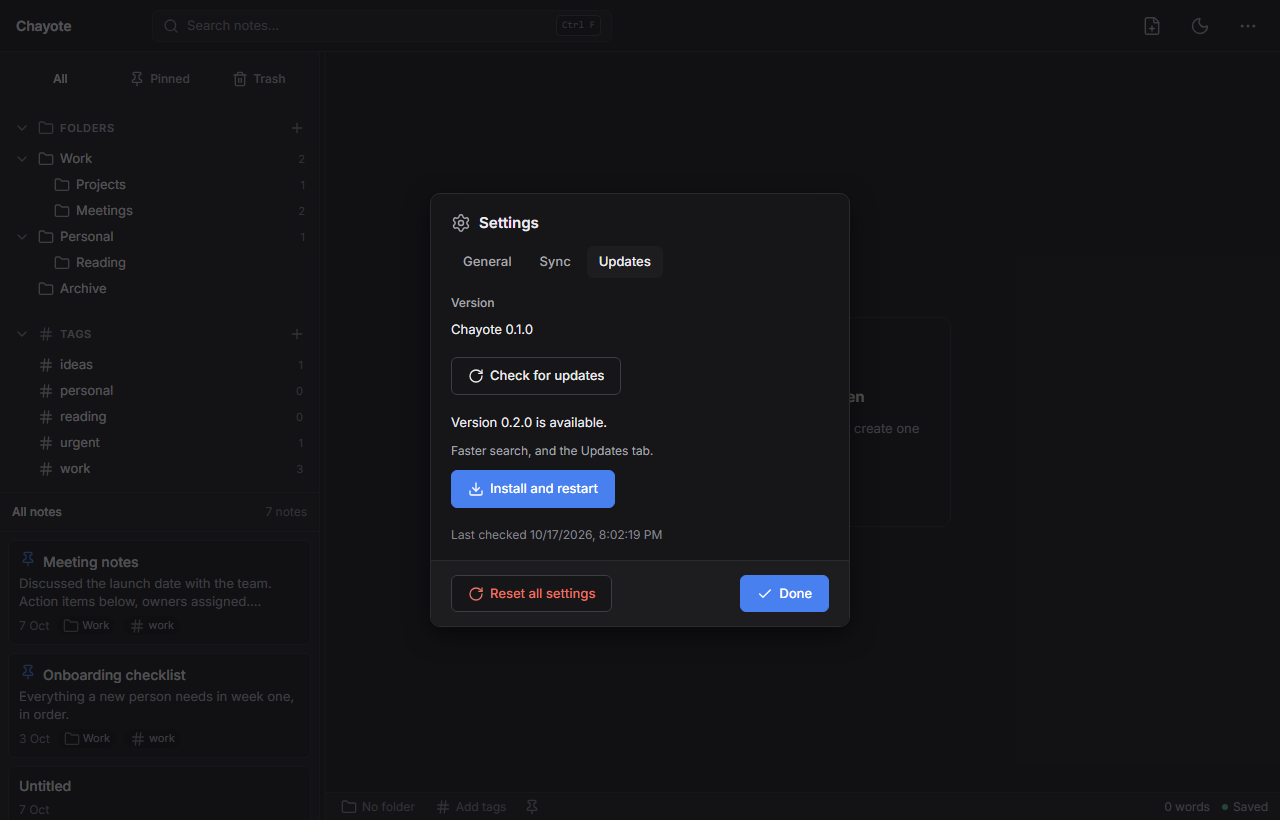
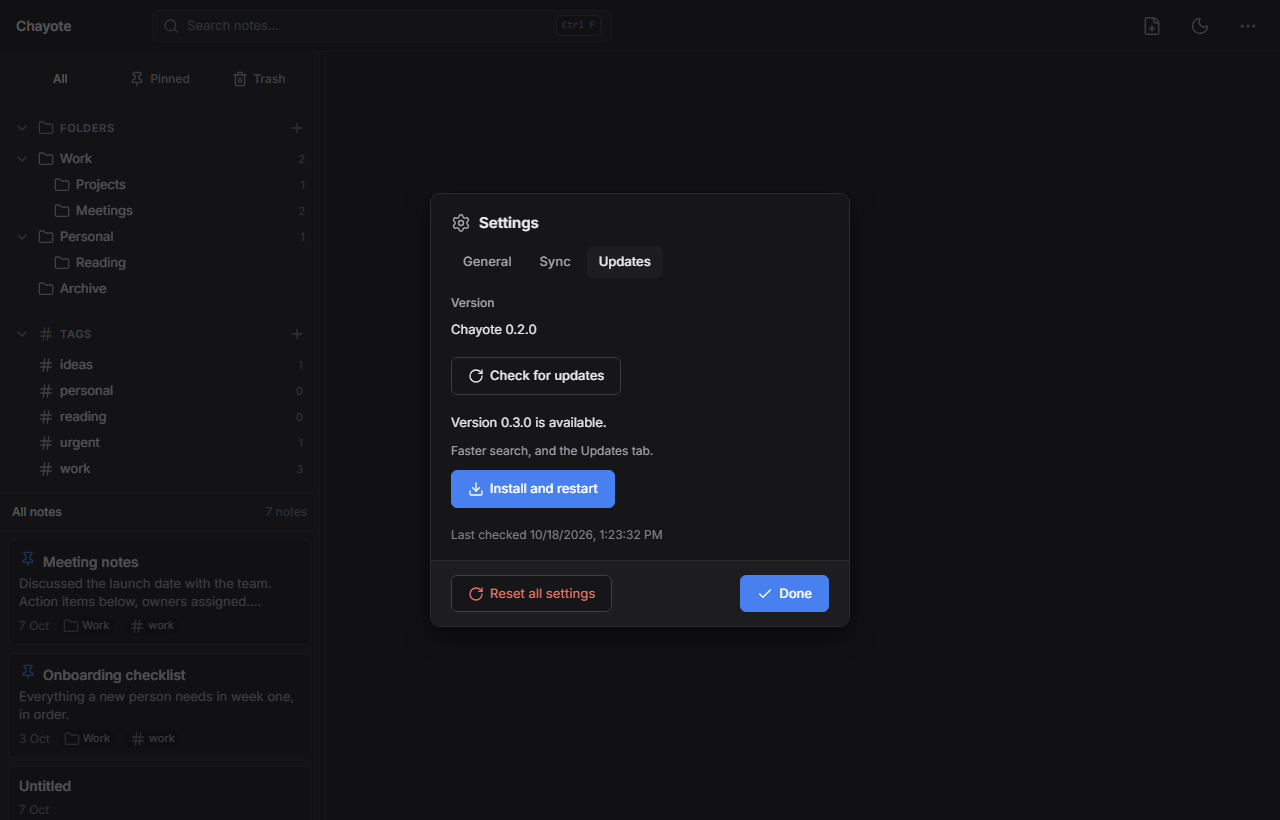
release: 0.2.0, and the Android APK job that ships it
Bumps the version in the four places that declare it, with
`src-tauri/tauri.conf.json` as the authority the `version` job checks the
tag against. The tag cannot be changed alone: the job refuses a tag that
disagrees with the config, because `latest.json` and every artifact signature
carry the config version and `requireSignedVersion` compares the signed
version with the announced one.

Follows the version through the mock. `MOCK_VERSION` restates the shipped
version and `MOCK_UPDATE.version` stays above it, so the browser fallback
reports 0.2.0 and offers 0.3.0; every fixture and the prototype restate the same
numbers, and one assertion in `UpdatePane.test.tsx` had to follow.

Three corrections to `release.yml` that ADR-025 made stale:

- The header still said the APK is intentionally not built here and that Android
  cannot update itself at all. Both false since the previous commit.
- The release body told users Android does not update itself, and had no APK row
  in the download table. It now carries the APK, the one-time debug-to-release
  reinstall, and the first-update permission.
- `tauri android build` gains `--ci`, and the JDK is pinned to 21 rather than
  inherited from whatever the runner ships, because a signed release should not
  depend on that.

The four `updates-*` screenshots are regenerated because their text really
changed. `search-light` and `tag-editor-*` were restored: they re-render
[…]

diff --git a/src/components/UpdatePane.test.tsx b/src/components/UpdatePane.test.tsx
@@ -13,14 +13,14 @@ import type { AppInfo, UpdateSummary } from '../types/update';
    Plain Testing Library assertions, no `jest-dom` — this project does not take
    that dependency, so `toHaveTextContent` and `toBeDisabled` are spelled out. */
 
-const WINDOWS: AppInfo = { version: '0.1.0', os: 'Windows', updatesSupported: true };
-const MACOS: AppInfo = { version: '0.1.0', os: 'macOS', updatesSupported: false };
+const WINDOWS: AppInfo = { version: '0.2.0', os: 'Windows', updatesSupported: true };
+const MACOS: AppInfo = { version: '0.2.0', os: 'macOS', updatesSupported: false };
 /** ADR-025: Android updates itself, so it is the supported fixture. It was the
     unsupported one until the Kotlin installer existed. */
-const ANDROID: AppInfo = { version: '0.1.0', os: 'Android', updatesSupported: true };
+const ANDROID: AppInfo = { version: '0.2.0', os: 'Android', updatesSupported: true };
 
 const FOUND: UpdateSummary = {
-  version: '0.2.0',
+  version: '0.3.0',
   notes: 'Faster search, and the Updates tab.',
   date: '2026-10-17T09:00:00Z',
 };
@@ -56,7 +56,7 @@ function isDisabled(testId: string): boolean {
 describe('UpdatePane', () => {
   it('shows the running version, and never a claim about anything else', () => {
     render(<UpdatePane {...pane()} />);
-    expect(text('update-version')).toContain('Chayote 0.1.0');
+    expect(text('update-version')).toContain('Chayote 0.2.0');
     /* Before a check has run the tab knows nothing about updates, so it says
        nothing. "Up to date" here would be a claim about a version it has not
        looked up. */
@@ -91,7 +91,7 @@ describe('UpdatePane', () => {
 
   it('offers the install only when a check found something newer', () => {
     render(<UpdatePane {...pane({ update: FOUND, lastCheckedAt: 1_780_000_000_000 })} />);
-    expect(text('update-available')).toContain('Version 0.2.0 is available.');
+    expect(text('update-available')).toContain('Version 0.3.0 is available.');
     expect(text('update-available')).toContain(FOUND.notes);
     expect(screen.queryByTestId('update-current')).toBeNull();
     expect(text('update-install')).toContain('Install and restart');
@@ -100,7 +100,7 @@ describe('UpdatePane', () => {
   it('omits the notes block rather than rendering an empty one', () => {
     render(<UpdatePane {...pane({ update: { ...FOUND, notes: '   ' } })} />);
     const available = screen.getByTestId('update-available');
-    expect(available.textContent).toContain('Version 0.2.0 is available.');
+    expect(available.textContent).toContain('Version 0.3.0 is available.');
     /* Two paragraphs would be the headline and an empty one. */
     expect(available.querySelectorAll('p')).toHaveLength(1);
   });
@@ -188,7 +188,7 @@ describe('UpdatePane', () => {
   });
 
   it('falls back to a general reason on a platform it has no words for', () => {
-    const unknown: AppInfo = { version: '0.1.0', os: 'Unknown', updatesSupported: false };
+    const unknown: AppInfo = { version: '0.2.0', os: 'Unknown', updatesSupported: false };
     render(<UpdatePane {...pane({ info: unknown })} />);
     expect(text('update-unsupported')).toContain('not available on this platform');
   });

diff --git a/prototype/index.html b/prototype/index.html
@@ -1276,7 +1276,7 @@ body {
         <div class="settings">
           <div class="field">
             <label>Version</label>
-            <div class="uval">Chayote 0.1.0</div>
+            <div class="uval">Chayote 0.2.0</div>
           </div>
           <div class="field">
             <button class="ubtn">
@@ -1308,13 +1308,13 @@ body {
         <div class="settings">
           <div class="field">
             <label>Version</label>
-            <div class="uval">Chayote 0.1.0</div>
+            <div class="uval">Chayote 0.2.0</div>
           </div>
           <div class="field">
             <button class="ubtn">
               <svg class="icon i-16" aria-hidden="true"><use href="#i-rotate-cw"/></svg>Check for updates
             </button>
-            <div class="unote-strong">Version 0.2.0 is available.</div>
+            <div class="unote-strong">Version 0.3.0 is available.</div>
             <div class="unote">Faster search on large notes, and the Updates tab.</div>
             <button class="ubtn primary">
               <svg class="icon i-16" aria-hidden="true"><use href="#i-download"/></svg>Install and restart
@@ -1345,7 +1345,7 @@ body {
         <div class="settings">
           <div class="field">
             <label>Version</label>
-            <div class="uval">Chayote 0.1.0</div>
+            <div class="uval">Chayote 0.2.0</div>
           </div>
           <div class="field">
             <button class="ubtn" disabled>
@@ -1376,13 +1376,13 @@ body {
         <div class="settings">
           <div class="field">
             <label>Version</label>
-            <div class="uval">Chayote 0.1.0</div>
+            <div class="uval">Chayote 0.2.0</div>
           </div>
           <div class="field">
             <button class="ubtn">
               <svg class="icon i-16" aria-hidden="true"><use href="#i-rotate-cw"/></svg>Check for updates
             </button>
-            <div class="unote-strong">Version 0.2.0 is available.</div>
+            <div class="unote-strong">Version 0.3.0 is available.</div>
             <div class="unote">Faster search on large notes, and the Updates tab.</div>
             <button class="ubtn primary">
               <svg class="icon i-16" aria-hidden="true"><use href="#i-download"/></svg>Install and restart

diff --git a/e2e/updates.spec.ts b/e2e/updates.spec.ts
@@ -36,7 +36,7 @@ test.describe('Updates', () => {
     await page.goto('/?seed=update');
     await openUpdates(page);
 
-    await expect(page.getByTestId('update-version')).toHaveText('Chayote 0.1.0');
+    await expect(page.getByTestId('update-version')).toHaveText('Chayote 0.2.0');
     await expect(page.getByTestId('update-check')).toBeEnabled();
     /* Nothing has been reported into the tab, so nothing is claimed — "up to
        date" here would be an assertion about a version the tab has not asked
@@ -65,7 +65,7 @@ test.describe('Updates', () => {
     await openUpdates(page);
     await page.getByTestId('update-check').click();
 
-    await expect(page.getByTestId('update-available')).toContainText('Version 0.2.0 is available.');
+    await expect(page.getByTestId('update-available')).toContainText('Version 0.3.0 is available.');
     await expect(page.getByTestId('update-available')).toContainText('Faster search');
     await expect(page.getByTestId('update-install')).toBeEnabled();
     /* Not both: an available update is not also an up-to-date one. */

diff --git a/src/mock/adapter.ts b/src/mock/adapter.ts
@@ -19,15 +19,16 @@ function nowMs(): number {
   return Date.now();
 }
 
-/** The version the browser fallback reports. `tauri.conf.json` says `0.1.0`;
+/** The version the browser fallback reports. `tauri.conf.json` says `0.2.0`;
     it is restated here rather than imported because the frontend cannot read a
     file from `src-tauri`, and a build that drifted from the real one would show
-    a version the app does not have. */
-const MOCK_VERSION = '0.1.0';
+    a version the app does not have. Bumping the release means bumping this and
+    `MOCK_UPDATE.version` below, which must stay above it. */
+const MOCK_VERSION = '0.2.0';
 
 /** The one update the fallback can offer, for `?seed=update`. */
 const MOCK_UPDATE = {
-  version: '0.2.0',
+  version: '0.3.0',
   notes: 'Faster search, and the Updates tab.',
   date: '2026-10-17T09:00:00Z',
 };

diff --git a/src/components/SyncPane.test.tsx b/src/components/SyncPane.test.tsx
@@ -279,7 +279,7 @@ describe('the third Settings tab', () => {
         confirmReset={null}
         initialTab={initialTab}
         updates={{
-          info: { version: '0.1.0', os: 'Windows', updatesSupported: true },
+          info: { version: '0.2.0', os: 'Windows', updatesSupported: true },
           isChecking: false,
           update: null,
           hasChecked: false,
